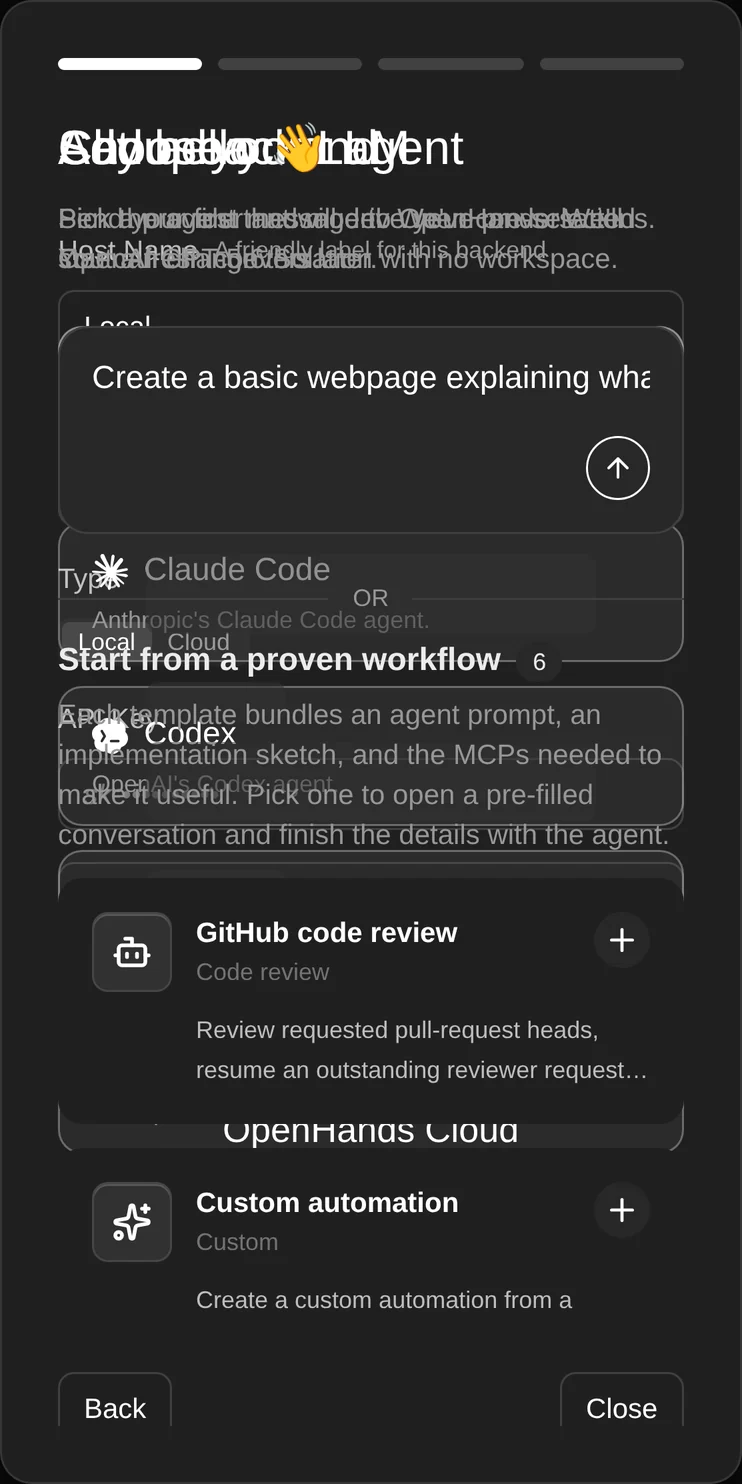
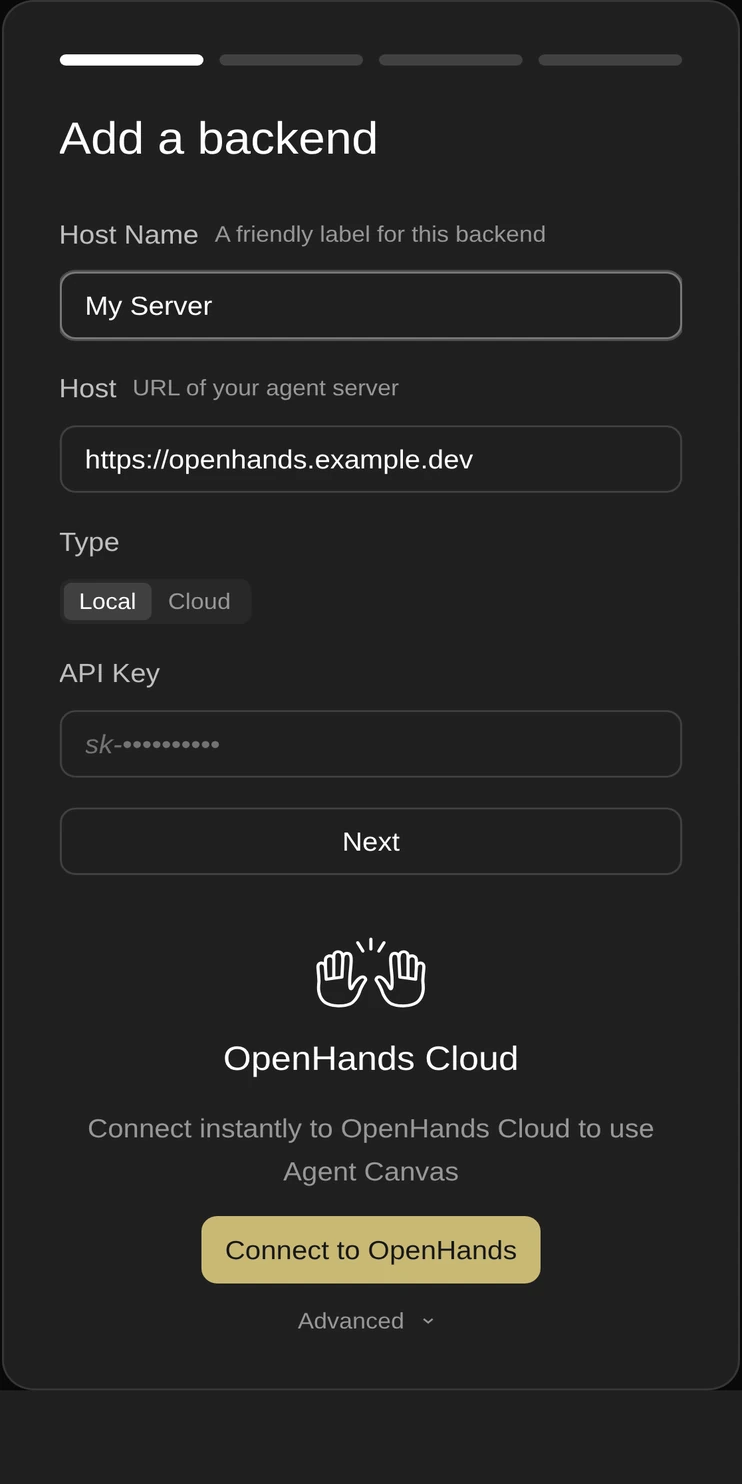
Fix app screenshots: capture real wizard frames without overlap
The four committed screen captures were unusable: every frame showed the
same stacked slide content bleeding through ('word over word'), because
slides are composited on top of each other and the telemetry consent card
sat over the wizard.

Re-captured each step of the first-run wizard in isolation, against a mock
agent-server so the LLM and hello steps render real content instead of
skeleton loaders. Frames are uniform 742x1484, show distinct content per
step, and are legible (verified by OCR).

Also refreshed the caption note to describe what the images actually show.

diff --git a/docs/index.html b/docs/index.html
@@ -1133,7 +1133,7 @@ code,pre{font-family:var(--font-mono)}
         </figure>
     </div>
 
-    <p class="shot-note reveal"><b>A note on these images.</b> They are captured from the app running with no backend attached, so every field is blank and nothing is pre-filled. That is the honest first-run state. Your own setup will carry your server, your model and your conversations.</p>
+    <p class="shot-note reveal"><b>A note on these images.</b> They are real screen captures of the app's first-run wizard, taken frame by frame as each step loads. The backend details shown are placeholders, not a live server. Your own setup will carry your server, your model and your conversations.</p>
   </div>
 </section>
 
